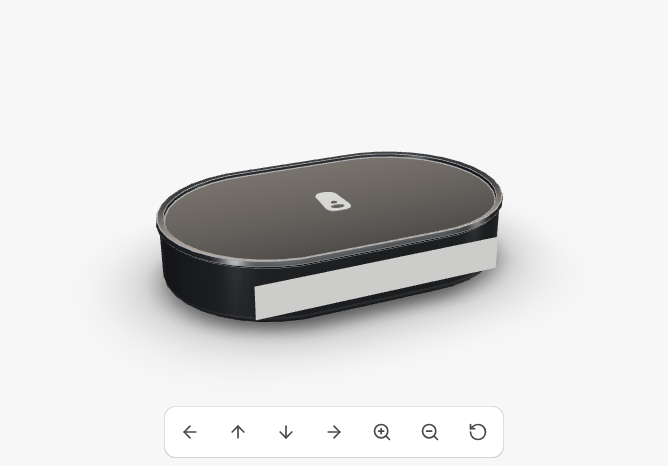
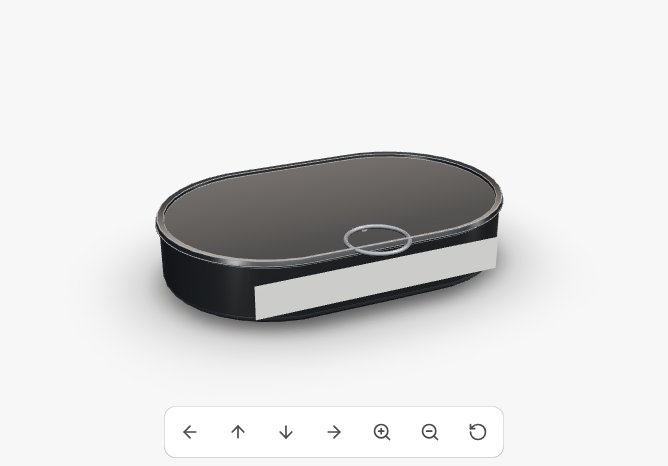
3d(cans, flexible): use engine closure styles, display mapping helpers (round 2)
- Merge main and 3d-engine. Ring-pull tins anchor on the end panel for the engine's EOE_RING (offset
  hack removed); punnet uses the engine's section-following PEEL_FOIL; lipstick gets BULLET_CAP
  (core ROUND_BOTTLE, cap: "bullet" anchors it to the case top); airless envelope includes its head.
- E-02 / E-03: cosmetic-cans/display.ts (displaySurfaces, displayLiquid). E-06 / E-07:
  flexible/display.ts (flexDisplayEnvelope, defaultPrintPanels). Library hook documented, not applied.
- Report: Round 2 section; E-09 and the EOE ring offset on rect tins are engine fixes.

Claude-Session: https://claude.ai/code/session_01ErLBsbrJGKcLzRPdTmLyhq

Changed region(s): [[0.509, 0.4807, 0.6287, 0.5708], [0.479, 0.3906, 0.5389, 0.4506]]

diff --git a/src/lib/vessels/families/cosmetic-cans/geometry.ts b/src/lib/vessels/families/cosmetic-cans/geometry.ts
@@ -125,8 +125,6 @@ interface Built {
  */
 const CLEAR_HIDE_Y: Mm = -2.5;
 
-/** finishTopY that puts the core CAN_END pull tab flat on an end panel at `panelY`. */
-export const ringPullAnchor = (panelY: Mm): Mm => panelY + 5.15;
 
 function bottle(s: Extract<ShapeSpec, { type: "bottle" }>, d: CatalogueDims, neck: NeckFinish): Built {
   const R = d.D / 2;
@@ -183,7 +181,9 @@ function radiusAtCtrl(R: Mm, neckR: Mm, t: number, shoulder: "round" | "flat" | 
 function caseShape(s: Extract<ShapeSpec, { type: "case" }>, d: CatalogueDims): Built {
   const R = d.D / 2;
   const H = d.H;
-  const split = H * s.capSplit;
+  // a bullet overcap (renderer BULLET_CAP, h = max(24, 3.2 (R + 1))) hides the split groove under its edge
+  const bulletH = Math.max(24, 3.2 * (R + 1));
+  const split = s.cap === "bullet" ? Math.max(H * 0.3, H - bulletH + 0.8) : H * s.capSplit;
   const ch = Math.min(1.2, R * 0.08);
   const ctrl: ControlPoint[] = [
     { r: 0, y: 0 },
@@ -210,7 +210,8 @@ function caseShape(s: Extract<ShapeSpec, { type: "case" }>, d: CatalogueDims): B
   const lid: LidGeometry = { type: s.capSplit > 0.5 && H < 35 ? "hinged" : "slip", section: s.section, y0: split, y1: H, r: R, depthRatio: (d.G ?? d.D) / d.D, topR: R - ch - 2 };
   // Non-round cases (oval deodorant stick): the round core cap would overhang the oval; the cap is
   // already in this profile, so hide the core closure inside it.
-  const closureY = isRound(s.section) ? undefined : H - 4;
+  // anchor the bullet cap (top = anchor + 0.45 h) so its top is the case top
+  const closureY = s.cap === "bullet" ? H - 0.45 * bulletH : isRound(s.section) ? undefined : H - 4;
   return { profile, innerTopY: split, sleeveY0: 0.5, sleeveY1: H - 0.5, lid, closedH: H, closureY };
 }
 
@@ -357,9 +358,11 @@ function metalcan(s: Extract<ShapeSpec, { type: "metalcan" }>, d: CatalogueDims)
     depthRatio: section.kind === "round" ? 1 : section.depthRatio,
     topR: R - endIn - 2,
   };
-  // Lever lid (paint): the recessed lid panel and chime are in this profile; hide the core closure
-  // under the lid panel. Ring-pull ends (drawn tuna / fish tins): put the core pull tab on the panel.
-  const closureY = lid.type === "lever" ? H - s.endDepthMm - 1 : !s.bottomSeam ? ringPullAnchor(H - s.endDepthMm) : undefined;
+  // Closure anchor on the end panel: the renderer's mouth styles (EOE_RING ring pull, PEEL_FOIL)
+  // sit there, and the generic core can-end tab (5 mm below the anchor) stays under the panel for a
+  // plain double-seam end. Lever lid (paint): no renderer style yet, so the core closure is hidden
+  // under the recessed lid panel that this profile draws.
+  const closureY = lid.type === "lever" ? H - s.endDepthMm - 1 : H - s.endDepthMm;
   return { profile, innerTopY: H - s.endDepthMm, sleeveY0: bodyY0 - 1, sleeveY1: bodyY1 + 1, lid, closedH: H, closureY };
 }
 
@@ -500,20 +503,21 @@ function cup(s: Extract<ShapeSpec, { type: "cup" }>, d: CatalogueDims): Built {
     // the lid tray is in the profile: shrink the round core closure out of sight under it
     return { profile, innerTopY: H - s.wallMm, sleeveY0: 1, sleeveY1: hb - 1, lid, closedH: H, closureY: CLEAR_HIDE_Y, closureR: 0.4 };
   }
-  // Non-round tubs and punnets: the round core lid cannot follow the footprint, so the lid is drawn
-  // here (snap lid: skirt over the flange with a recessed panel; film lid: flat film on the flange)
-  // and the core closure is shrunk out of sight under it. Round cups keep the core lid.
-  const ownLid = !isRound(s.section) && (s.lid === "snap" || s.lid === "foil");
+  // Non-round tubs: the round core snap lid cannot follow the footprint and the renderer has no snap
+  // style yet, so the lid (skirt over the flange, recessed panel) is part of this profile and the
+  // core closure is shrunk out of sight. Film lids are drawn by the renderer (PEEL_FOIL follows the
+  // section). Round cups keep the core lid.
+  const ownLid = !isRound(s.section) && s.lid === "snap";
+  const foilOnly = !isRound(s.section) && s.lid === "foil";
   const snapT = s.lid === "snap" ? Math.max(6, Math.min(10, H * 0.08)) : 0;
-  const rimY = ownLid && s.lid === "snap" ? H - snapT + 1 : H - 1.2;
+  const rimY = ownLid ? H - snapT + 1 : H - 1.2;
   const top: ControlPoint[] = !ownLid
     ? [
         { r: Rt + f, y: H, round: 0.4 },
         { r: Rt - s.wallMm, y: H, round: 0.3 },
         { r: Rt - s.wallMm - 0.2, y: H - 3 },
       ]
-    : s.lid === "snap"
-      ? [
+    : [
           { r: Rt + f, y: rimY + 0.4, round: 0.3 },
           { r: Rt + f + 1, y: rimY - 0.6, round: 0.3 },
           { r: Rt + f + 1.4, y: rimY - 0.2, round: 0.4 },
@@ -522,11 +526,6 @@ function cup(s: Extract<ShapeSpec, { type: "cup" }>, d: CatalogueDims): Built {
           { r: Rt - 3, y: H, round: 0.8 },
           { r: Rt - 4.5, y: H - 0.8, round: 0.8 },
           { r: 0, y: H - 0.8 },
-        ]
-      : [
-          { r: Rt + f, y: H - 0.1, round: 0.4 },
-          { r: Rt + f - 0.6, y: H, round: 0.3 },
-          { r: 0, y: H },
         ];
   const ctrl: ControlPoint[] = [
     { r: 0, y: 1.2 },
@@ -552,6 +551,9 @@ function cup(s: Extract<ShapeSpec, { type: "cup" }>, d: CatalogueDims): Built {
   const lid: LidGeometry | null =
     s.lid === "none" ? null : { type: s.lid, section: s.section, y0: H - (s.lid === "snap" ? 2 : 0), y1: H + lidT, r: Rt + f + (s.lid === "snap" ? 1 : 0), depthRatio: section.kind === "round" ? 1 : section.depthRatio, topR: Rt - 3 };
   if (ownLid) return { profile, innerTopY: H - 0.5, sleeveY0: 2, sleeveY1: rimY - 1.5, lid, closedH: H, closureY: CLEAR_HIDE_Y, closureR: 0.4 };
+  // film-lidded trays: the renderer's PEEL_FOIL covers the rim; a non-film option (hinged lid) has
+  // no style yet and falls back to a round core lid, so shrink that fallback to a speck
+  if (foilOnly) return { profile, innerTopY: H - 0.5, sleeveY0: 2, sleeveY1: rimY - 1.5, lid, closedH: lid ? lid.y1 : H, closureR: 0.4 };
   return { profile, innerTopY: H - 0.5, sleeveY0: 2, sleeveY1: rimY - 1.5, lid, closedH: lid ? lid.y1 : H };
 }
 

diff --git a/src/lib/vessels/families/cosmetic-cans/display.ts b/src/lib/vessels/families/cosmetic-cans/display.ts
@@ -1,0 +1,63 @@
+import type { LiquidCode } from "../../registry";
+import type { PrintSurfaceKind } from "../../types";
+import type { CatalogueSurfaceKind, CatalogueVesselDefinition } from "./types";
+
+/**
+ * How the core 3D renderer should SHOW a catalogue model whose real print processes or contents the
+ * core cannot express (audit 3d-cans-flexible E-02, E-03). Pure data; the print specs, pricing and
+ * dielines keep using the catalogue surfaces.
+ */
+
+/**
+ * Core display surface(s) for a catalogue print surface. Direct print, in-mould labels and printed
+ * lids are decorated all over the body, so the closest core look is a full wrap on round bodies and
+ * front + back panels on square / oval ones. Rect lid tops have no core lid label yet (null).
+ */
+export function displaySurfacesFor(def: CatalogueVesselDefinition, s: CatalogueSurfaceKind): PrintSurfaceKind[] {
+  const round = def.geometry !== "extrusion";
+  switch (s) {
+    case "WRAP":
+    case "FRONT":
+    case "BACK":
+    case "SHRINK_SLEEVE":
+    case "NECK":
+    case "LID":
+      return [s];
+    case "DIRECT_PRINT":
+    case "IML":
+      return round ? ["WRAP"] : ["FRONT", "BACK"];
+    case "LID_TOP":
+    case "LID_FOIL":
+      return round ? ["LID"] : [];
+    default:
+      return [];
+  }
+}
+
+const uniq = <T>(a: T[]) => [...new Set(a)];
+
+/** Display surfaces offered and selected by default (order kept, duplicates dropped). */
+export function displaySurfaces(def: CatalogueVesselDefinition): { surfaces: PrintSurfaceKind[]; defaultSurfaces: PrintSurfaceKind[] } {
+  const surfaces = uniq(def.surfaces.flatMap((s) => displaySurfacesFor(def, s)));
+  const defaults = uniq(def.defaultSurfaces.flatMap((s) => displaySurfacesFor(def, s)));
+  return { surfaces: surfaces.length ? surfaces : ["WRAP"], defaultSurfaces: defaults.length ? defaults : [surfaces[0] ?? "WRAP"] };
+}
+
+/** Product shown inside clear containers: perfume is clear, serums tinted, creams opaque. */
+const LIQUID_BY_CODE: Partial<Record<string, LiquidCode>> = {
+  "COS-DROPPER": "SERUM",
+  "COS-SERUM": "SERUM",
+  "COS-PERFUME-ROUND": "PERFUME",
+  "COS-PERFUME-OVAL": "PERFUME",
+  "COS-ROLL-ON": "SERUM",
+  "COS-LIP-GLOSS": "HIBISCUS",
+  "COS-NAIL-POLISH": "HIBISCUS",
+  "PH-VIAL": "WATER",
+  "PH-AMPOULE": "WATER",
+  "PH-EYE-DROP": "WATER",
+  "CUP-DELI": "WATER",
+};
+
+export function displayLiquid(def: CatalogueVesselDefinition): LiquidCode {
+  return LIQUID_BY_CODE[def.code] ?? (def.family === "CAN" ? "COLA" : def.family === "PHARMA" ? "SERUM" : "CREAM");
+}

diff --git a/src/lib/vessels/families/cosmetic-cans/__tests__/closures.test.ts b/src/lib/vessels/families/cosmetic-cans/__tests__/closures.test.ts
@@ -8,12 +8,19 @@ const geo = (code: string) => {
 };
 
 describe("closure anchors (core closure placement)", () => {
-  it.each(["CAN-TUNA", "CAN-SARDINE", "CAN-OVAL-FISH"])("%s: core pull tab lies on the end panel", (code) => {
+  it.each(["CAN-TUNA", "CAN-SARDINE", "CAN-OVAL-FISH", "CAN-FOOD-3PC"])("%s: closure anchored on the end panel (EOE_RING / PEEL_FOIL sit there, core tab stays under it)", (code) => {
     const { def, d, g } = geo(code);
     expect(def.coreKind ?? "CAN").toBe("CAN");
     const endDepth = def.shape.type === "metalcan" ? def.shape.endDepthMm : 0;
-    // CAN_END tab underside sits 5.15 mm below finishTopY
-    expect(g.profile!.finishTopY - 5.15).toBeCloseTo(d.H - endDepth, 3);
+    expect(g.profile!.finishTopY).toBeCloseTo(d.H - endDepth, 3);
+  });
+
+  it("lipstick: bullet overcap anchored so its top is the case top, split groove under its edge", () => {
+    const { def, d, g } = geo("COS-LIPSTICK");
+    expect(def.coreKind).toBe("ROUND_BOTTLE");
+    const R = d.D / 2;
+    const h = Math.max(24, 3.2 * (R + 1));
+    expect(g.profile!.finishTopY + 0.45 * h).toBeCloseTo(d.H, 3);
   });
 
   it.each(["TIN-GIFT-SQUARE", "TIN-TEA-CADDY", "CAN-PAINT", "COS-DEO-STICK"])("%s: lid is in the profile and the round core closure is hidden inside", (code) => {
@@ -35,7 +42,7 @@ describe("closure anchors (core closure placement)", () => {
 });
 
 describe("non-round tubs and trays (3d-visual V-12)", () => {
-  it.each(["TUB-ICE-RECT", "TRAY-CLAMSHELL", "TRAY-PUNNET"])("%s: lid follows the footprint, core closure shrunk and parked under the base", (code) => {
+  it.each(["TUB-ICE-RECT", "TRAY-CLAMSHELL"])("%s: lid in the profile follows the footprint, core closure shrunk and parked under the base", (code) => {
     const { d, g } = geo(code);
     const p = g.profile!;
     expect(p.section.kind).toBe("roundedRect");
@@ -44,5 +51,13 @@ describe("non-round tubs and trays (3d-visual V-12)", () => {
     const last = p.outer[p.outer.length - 1];
     expect(last.r).toBeLessThan(0.5);
     expect(last.y).toBeGreaterThan(d.H - 1);
+  });
+
+  it("TRAY-PUNNET: open rim at H for the renderer's section-following PEEL_FOIL; round fallback shrunk", () => {
+    const { d, g } = geo("TRAY-PUNNET");
+    const p = g.profile!;
+    expect(p.finishTopY).toBeCloseTo(d.H, 1);
+    expect(p.finishR).toBeLessThan(1);
+    expect(Math.max(...p.outer.map((q) => q.y))).toBeCloseTo(d.H, 1);
   });
 });

diff --git a/src/lib/vessels/families/cosmetic-cans/__tests__/display.test.ts b/src/lib/vessels/families/cosmetic-cans/__tests__/display.test.ts
@@ -1,0 +1,32 @@
+import { describe, expect, it } from "vitest";
+import { DEFINITIONS_BY_CODE, displayLiquid, displaySurfaces } from "@/lib/vessels/families/cosmetic-cans";
+import { defaultFlexConfig, defaultPrintPanels, flexDisplayEnvelope } from "@/lib/vessels/families/flexible";
+
+describe("display mapping (E-02, E-03, E-06, E-07)", () => {
+  it("direct-printed round bodies show a wrap, square ones front + back", () => {
+    expect(displaySurfaces(DEFINITIONS_BY_CODE["CAN-BEVERAGE"]).defaultSurfaces).toEqual(["WRAP"]);
+    expect(displaySurfaces(DEFINITIONS_BY_CODE["TIN-GIFT-ROUND"]).defaultSurfaces).toEqual(["WRAP", "LID"]);
+    expect(displaySurfaces(DEFINITIONS_BY_CODE["TIN-GIFT-SQUARE"]).surfaces).toEqual(expect.arrayContaining(["FRONT", "BACK"]));
+  });
+
+  it("every catalogue model maps to at least one core display surface", () => {
+    for (const def of Object.values(DEFINITIONS_BY_CODE)) {
+      const d = displaySurfaces(def);
+      expect(d.surfaces.length, def.code).toBeGreaterThan(0);
+      expect(d.defaultSurfaces.every((s) => d.surfaces.includes(s)), def.code).toBe(true);
+    }
+  });
+
+  it("perfume shows perfume, cans cola, creams cream", () => {
+    expect(displayLiquid(DEFINITIONS_BY_CODE["COS-PERFUME-ROUND"])).toBe("PERFUME");
+    expect(displayLiquid(DEFINITIONS_BY_CODE["COS-SERUM"])).toBe("SERUM");
+    expect(displayLiquid(DEFINITIONS_BY_CODE["CAN-BEVERAGE"])).toBe("COLA");
+    expect(displayLiquid(DEFINITIONS_BY_CODE["COS-JAR-DOUBLE"])).toBe("CREAM");
+  });
+
+  it("flow wrap is framed lying down; gussets and bottoms are printed by default", () => {
+    const e = flexDisplayEnvelope(defaultFlexConfig("FLEX_FLOW_WRAP"));
+    expect(e.width).toBeGreaterThan(e.height);
+    expect(defaultPrintPanels("FLEX_QUAD_SEAL_BAG")).toEqual(expect.arrayContaining(["gussetLeft", "gussetRight", "bottom"]));
+  });
+});

diff --git a/src/lib/vessels/families/cosmetic-cans/index.ts b/src/lib/vessels/families/cosmetic-cans/index.ts
@@ -20,6 +20,7 @@ import type {
 } from "./types";
 
 export * from "./types";
+export { displayLiquid, displaySurfaces, displaySurfacesFor } from "./display";
 export { EXTRA_NECKS, buildGeometry, blisterLayout, crossSection, tinLidH } from "./geometry";
 export { DIRECT_BLEED_MM, DIRECT_SAFE_MM, FOIL_TAB_MM, directPrint, girthAt, lidDisc, lidRect, printFlatPoint, printUv, surfacesFor } from "./surfaces";
 
@@ -213,8 +214,10 @@ export function catalogueEnvelope(def: CatalogueVesselDefinition, d: CatalogueDi
   }
   const w = 2 * maxR;
   const depth = p.section.kind === "roundedRect" ? w * p.section.depthRatio : w;
-  // lids drawn by the geometry are already inside overallHeightMm
-  return { width: w, depth, height: geometry.overallHeightMm + (geometry.lid ? 0 : catalogueClosureHeight(def, d)) };
+  // lids drawn by the geometry are already inside overallHeightMm; the airless pump head and overcap
+  // are drawn by the renderer above H (H is the body under the head), so they add their height
+  const above = !geometry.lid || def.defaultClosure === "AIRLESS_PUMP" ? catalogueClosureHeight(def, d) : 0;
+  return { width: w, depth, height: geometry.overallHeightMm + above };
 }
 
 /** Definitions grouped by family (for catalogue pages). */

diff --git a/src/lib/vessels/families/flexible/display.ts b/src/lib/vessels/families/flexible/display.ts
@@ -1,0 +1,18 @@
+import { definitionFor } from "./definitions";
+import type { FlexConfig } from "./schema";
+import { solveShape } from "./shape";
+import type { FlexPanelId, FlexibleCode } from "./types";
+
+/**
+ * Framing and default print panels for the 3D view (audit 3d-cans-flexible E-06, E-07).
+ * The envelope is the FILLED pack as displayed (pillows shrink and bulge, flow wraps lie on their
+ * side), not the flat W x H: frame the camera on this.
+ */
+export function flexDisplayEnvelope(cfg: FlexConfig): { width: number; depth: number; height: number } {
+  return solveShape(cfg).envelope;
+}
+
+/** Every panel of the pack is printed on a real job (gussets and bottoms included). */
+export function defaultPrintPanels(code: FlexibleCode): FlexPanelId[] {
+  return [...definitionFor(code).panels];
+}

diff --git a/src/lib/vessels/families/cosmetic-cans/definitions/cosmetic.ts b/src/lib/vessels/families/cosmetic-cans/definitions/cosmetic.ts
@@ -227,9 +227,9 @@ export const COSMETIC_DEFINITIONS: CatalogueVesselDefinition[] = [
     family: "COSMETIC",
     subFamily: MAKEUP,
     standard: null,
-    coreKind: null,
+    coreKind: "ROUND_BOTTLE", // screw-cap core so the renderer draws its BULLET_CAP style
     geometry: "lathe",
-    shape: { type: "case", section: "round", capSplit: 0.42, wallMm: 0.8 },
+    shape: { type: "case", section: "round", capSplit: 0.42, wallMm: 0.8, cap: "bullet" },
     materials: ["ALUMINIUM", "ABS_BLACK"],
     defaultMaterial: "ALUMINIUM",
     closures: ["BULLET_CAP"],

diff --git a/src/lib/vessels/families/cosmetic-cans/types.ts b/src/lib/vessels/families/cosmetic-cans/types.ts
@@ -155,7 +155,7 @@ export type ShapeSpec =
       /** Decorative collar over the crimp finish (perfume), mm high. */
       collarMm?: Mm;
     }
-  | { type: "case"; section: SectionKind; capSplit: number; wallMm: Mm }
+  | { type: "case"; section: SectionKind; capSplit: number; wallMm: Mm; /** "bullet": separate overcap drawn by the renderer (lipstick); the split sits under its edge. */ cap?: "bullet" }
   | { type: "ampoule" }
   | { type: "jar"; doubleWall: boolean; wallMm: Mm; baseMm: Mm }
   | { type: "bevcan" }

diff --git a/src/lib/vessels/families/flexible/index.ts b/src/lib/vessels/families/flexible/index.ts
@@ -11,3 +11,4 @@ export { solveShape, panelPoint, stripLength, orient, type FlexShape, type Shape
 export { buildFlexibleModel, crimpNormalTexture, wrinkleAt, type FlexModel, type FlexMeshPart, type FlexPartRole } from "./geometry";
 export { FILM_MATERIALS, createFilmMaterial, createHardwareMaterial, type FilmMaterial, type FilmMaterialOptions } from "./materials";
 export { buildFlexibleGroup, type FlexGroupOptions } from "./group";
+export { flexDisplayEnvelope, defaultPrintPanels } from "./display";

diff --git a/docs/audit/3d-cans-flexible.md b/docs/audit/3d-cans-flexible.md
@@ -67,3 +67,28 @@ Live designer at iPhone 13 viewport, SwiftShader (software GL, so a floor, not a
 
 - New: `cosmetic-cans/__tests__/closures.test.ts` (ring-pull anchor, hidden closures, square lid skirt), `flexible/__tests__/realism.test.ts` (landscape flow-wrap panels and UVs, clear-film product, wrinkle bounds and fade, doypack base width).
 - `flexible.test.ts`: the per-component UV range loop (thousands of `expect()` calls, timed out at the finer mesh) now checks the same bound on the min / max in one assertion. Same predicate, nothing weakened.
+
+## Round 2
+
+Merged `origin/claude/exciting-albattani-8kzgsu` and `origin/claude/exciting-albattani-8kzgsu-3d-engine` (d9c2406). The engine now has real closure styles (`ROLL_ON_BALL`, `AIRLESS_PUMP`, `BULLET_CAP`, `PEEL_FOIL`, `EOE_RING`, mapped via `VesselOption.closureStyle`). Sheets: `round2-closures-before.jpg` / `round2-closures-after.jpg`.
+
+| ID | Sev | Model / file | Finding | Fix | Status |
+|---|---|---|---|---|---|
+| R2-01 | high | CAN-TUNA, CAN-SARDINE, CAN-OVAL-FISH, CAN-FOOD-3PC · `geometry.ts · metalcan` | Ring pull was the generic core can tab placed by an offset hack (`ringPullAnchor`); the EASY_OPEN_END option on the food can showed nothing. | Hack removed. Closure anchor = end panel, so the engine's `EOE_RING` (ring + rivet, follows the section) sits on the panel and a plain double-seam end keeps the core tab hidden under it. | fixed |
+| R2-02 | high | TRAY-PUNNET · `geometry.ts · cup` | Film lid drawn in the profile regardless of the closure option. | Profile is an open rim again; the engine's section-following `PEEL_FOIL` draws the film. The round fallback for the HINGED_LID option (no style yet) is shrunk to a speck (`closureR`). | fixed |
+| R2-03 | high | COS-LIPSTICK · `geometry.ts · caseShape`, `definitions/cosmetic.ts` | Round jar lid disc on top of the case (core `LUG_LID` blocks styles). | Core kind `ROUND_BOTTLE` so `BULLET_CAP` applies; new `cap: "bullet"` shape option anchors the cap so its top is the case top and puts the split groove under its edge. | fixed |
+| R2-04 | medium | COS-AIRLESS · `index.ts · catalogueEnvelope` | Overcap cropped by the camera: envelope ignored the renderer-drawn head because the case shape has a lid. | Airless head height (17 mm) added to the envelope. | fixed |
+| R2-05 | — | COS-ROLL-ON, CUP-YOGURT | Now render the engine's ball + dome cap and peel foil. Verified. | — | fixed (engine) |
+| R2-06 | medium | E-02, E-03 → `cosmetic-cans/display.ts` | Surface mapping and per-model liquid. | `displaySurfaces(def)` (DIRECT_PRINT / IML → WRAP on round, FRONT + BACK on square / oval; LID_TOP / LID_FOIL → LID on round) and `displayLiquid(def)` (perfume PERFUME, serums SERUM, vials / eye drops WATER, cans COLA, creams CREAM). Library hook below. | fixed in family, needs hook |
+| R2-07 | medium | E-06, E-07 → `flexible/display.ts` | Flex framing and default panels. | `flexDisplayEnvelope(cfg)` (filled, flow wrap lying down) and `defaultPrintPanels(code)` (all panels). Library hook below. | fixed in family, needs hook |
+
+Still open:
+- **E-09 oval tube (engine):** `src/components/three/vessels/geometry.ts · tubeBodyGeometry(dims)` builds round rings from `dims.D` and ignores `dims.G`. Fix: pass `G` and make each body ring an ellipse with `a = D/2`, `b = G/2`, morphing to the flat crimp as it does now. Also have the library route tubes through `describeVessel` with `dims.G`. The family profile already carries the stadium section.
+- **EOE ring on rect / oval tins (engine, new):** `closures.ts · styledClosure EOE_RING` places the ring at `z = R * 0.55` with R the half WIDTH, so on CAN-SARDINE and CAN-OVAL-FISH (depth 0.57× width) the ring hangs over the short edge. Fix: `z = R * depthRatio * 0.55` and `rr = min(…, R * depthRatio * 0.4)`.
+- **Hacks kept** (no engine style yet): square slip / plug lids (TIN-GIFT-SQUARE, TIN-TEA-CADDY), lever lid (CAN-PAINT), twist-up cap (COS-DEO-STICK), snap lid on TUB-ICE-RECT, clamshell hinge. Each needs a section-following style (`SLIP_LID_SECTION`, `LEVER_LID`, `SNAP_LID_SECTION`, `TWIST_UP`, `HINGED_TRAY`); then drop `closureY` / `closureR` in `geometry.ts`.
+- **E-08 flex options:** needs a designer field (`doc.vessel.options`) and ConfigPanel toggles from `def.allowedOptions`; the family already validates and renders every option.
+
+### Library hook (not applied: this session's brief says not to edit src/lib/library)
+In `src/lib/library/vessels.ts`:
+- `COSMETIC`: `const shown = COS.displaySurfaces(def);` then `surfaces: shown.surfaces, defaultSurfaces: shown.defaultSurfaces` (replaces the `isSurface` filter), and `defaultLiquid: COS.displayLiquid(def)`.
+- `FLEXIBLE`: `defaultSurfaces: FLEX.defaultPrintPanels(def.code)`, and in `describe`: `envelope: FLEX.flexDisplayEnvelope(cfg)`.
